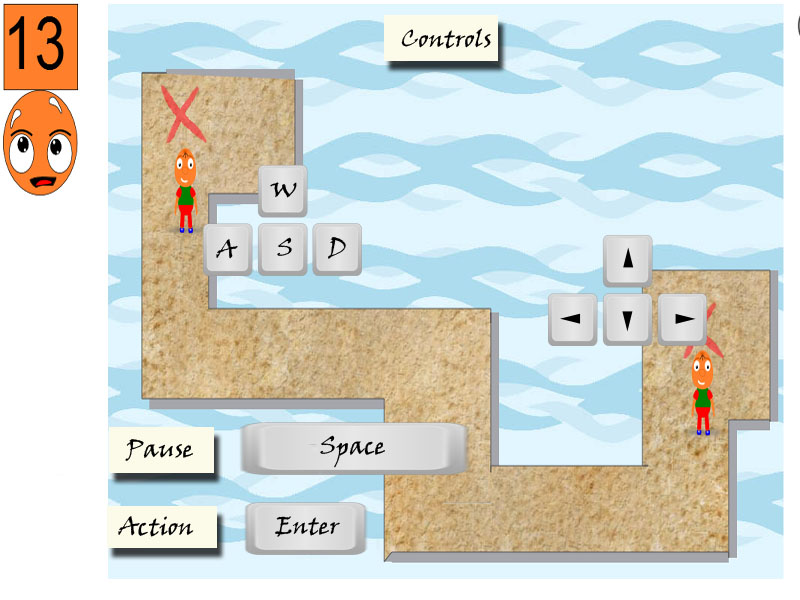
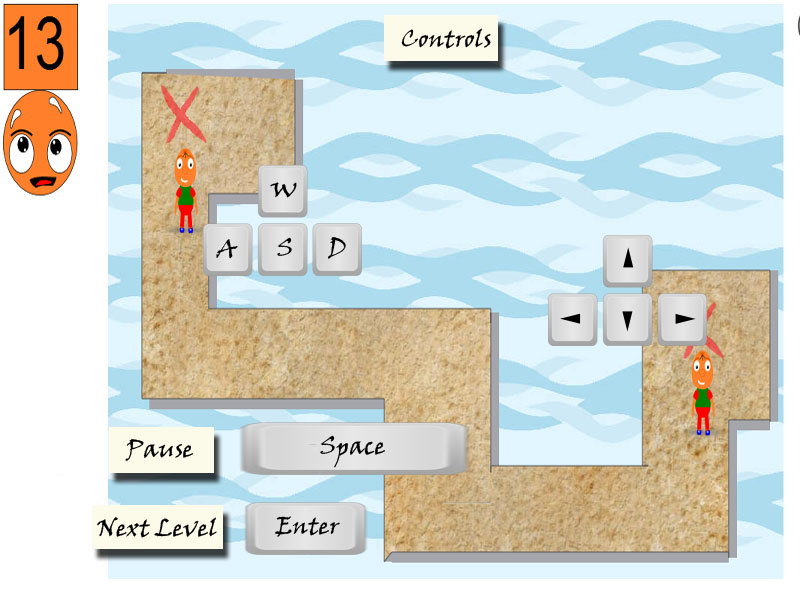
Minor changes

Changed region(s): [[0.0938, 0.84, 0.3125, 0.93]]

diff --git a/js/levels.js b/js/levels.js
@@ -23,7 +23,7 @@ var levels=[
 
  
  { walls:[{"x":72,"y":81,"height":11,"width":525},{"x":597,"y":82,"height":318,"width":11},{"x":601,"y":395,"height":11,"width":241},{"x":840,"y":395,"height":120,"width":11},{"x":480,"y":512,"height":11,"width":360},{"x":470,"y":232,"height":280,"width":11},{"x":75,"y":229,"height":11,"width":395},{"x":75,"y":89,"height":140,"width":11}]
- ,  playerPosition :[{"x":112,"y":134,"height":50,"width":50},{"x":760,"y":438,"height":50,"width":50}],time:15} ,
+ ,  playerPosition :[{"x":112,"y":134,"height":50,"width":50},{"x":760,"y":438,"height":50,"width":50}],time:20} ,
 
   //level 2
 

diff --git a/js/NotificationManager.js b/js/NotificationManager.js
@@ -105,7 +105,7 @@ p.initLastLevelWon = function(){
 		gameFinishedTxt.textBaseline = "top";
 		this.lastLevelWon.addChild(gameFinishedTxt);
 		
-		var creaditTxt = new createjs.Text("Created By Hemant Sachdeva", "36px Arial", "#000");
+		var creaditTxt = new createjs.Text("Thanks For Playing", "36px Arial", "#000");
 		creaditTxt.textBaseline = "top";
 		creaditTxt.y=70
 		this.lastLevelWon.addChild(creaditTxt);	
